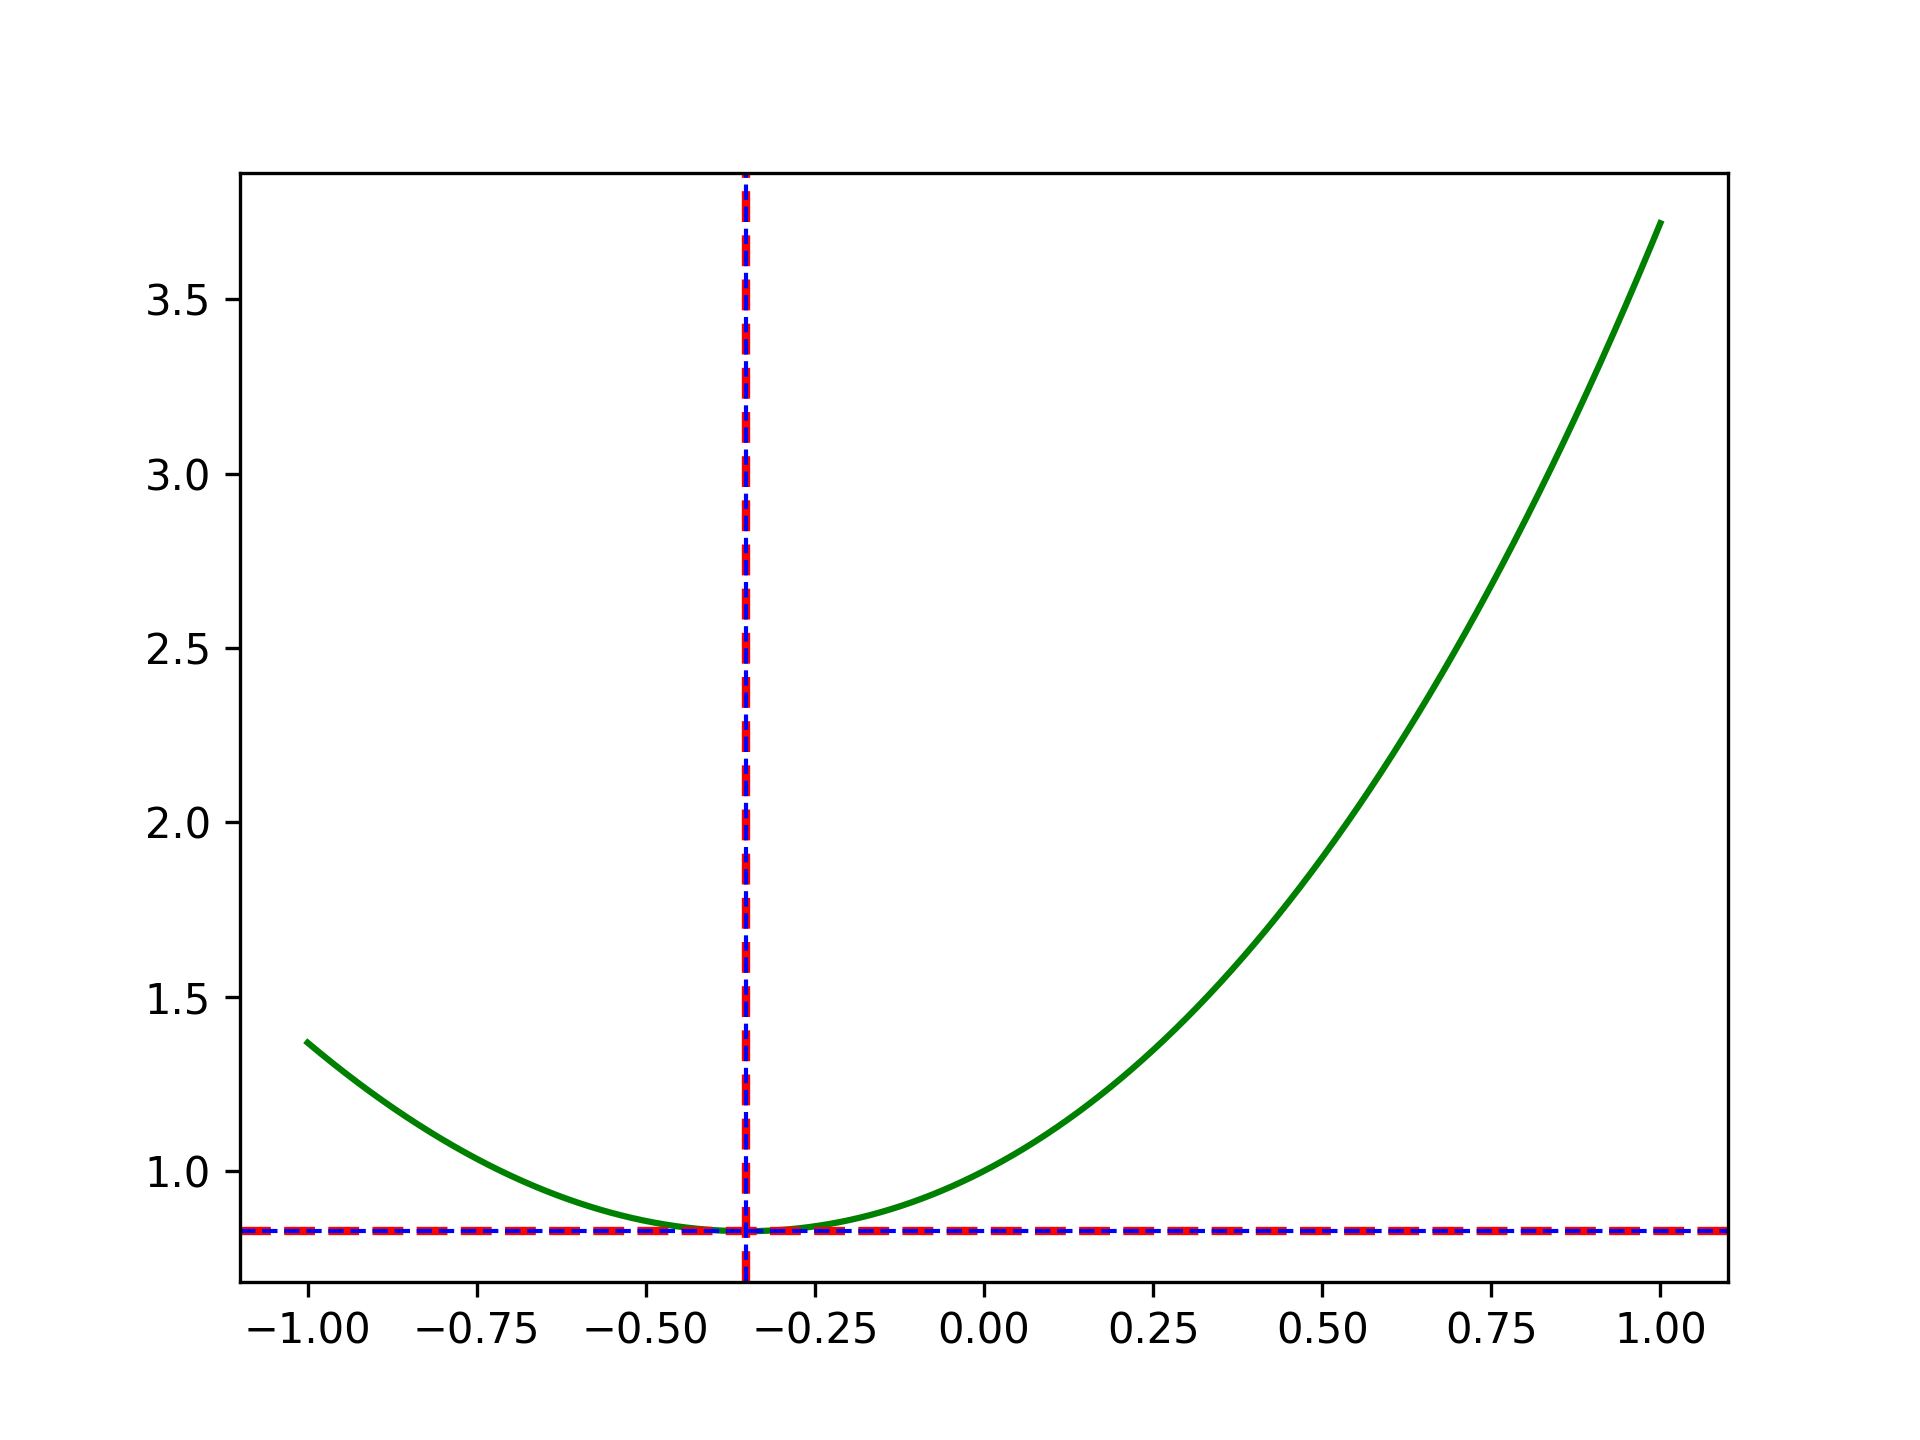
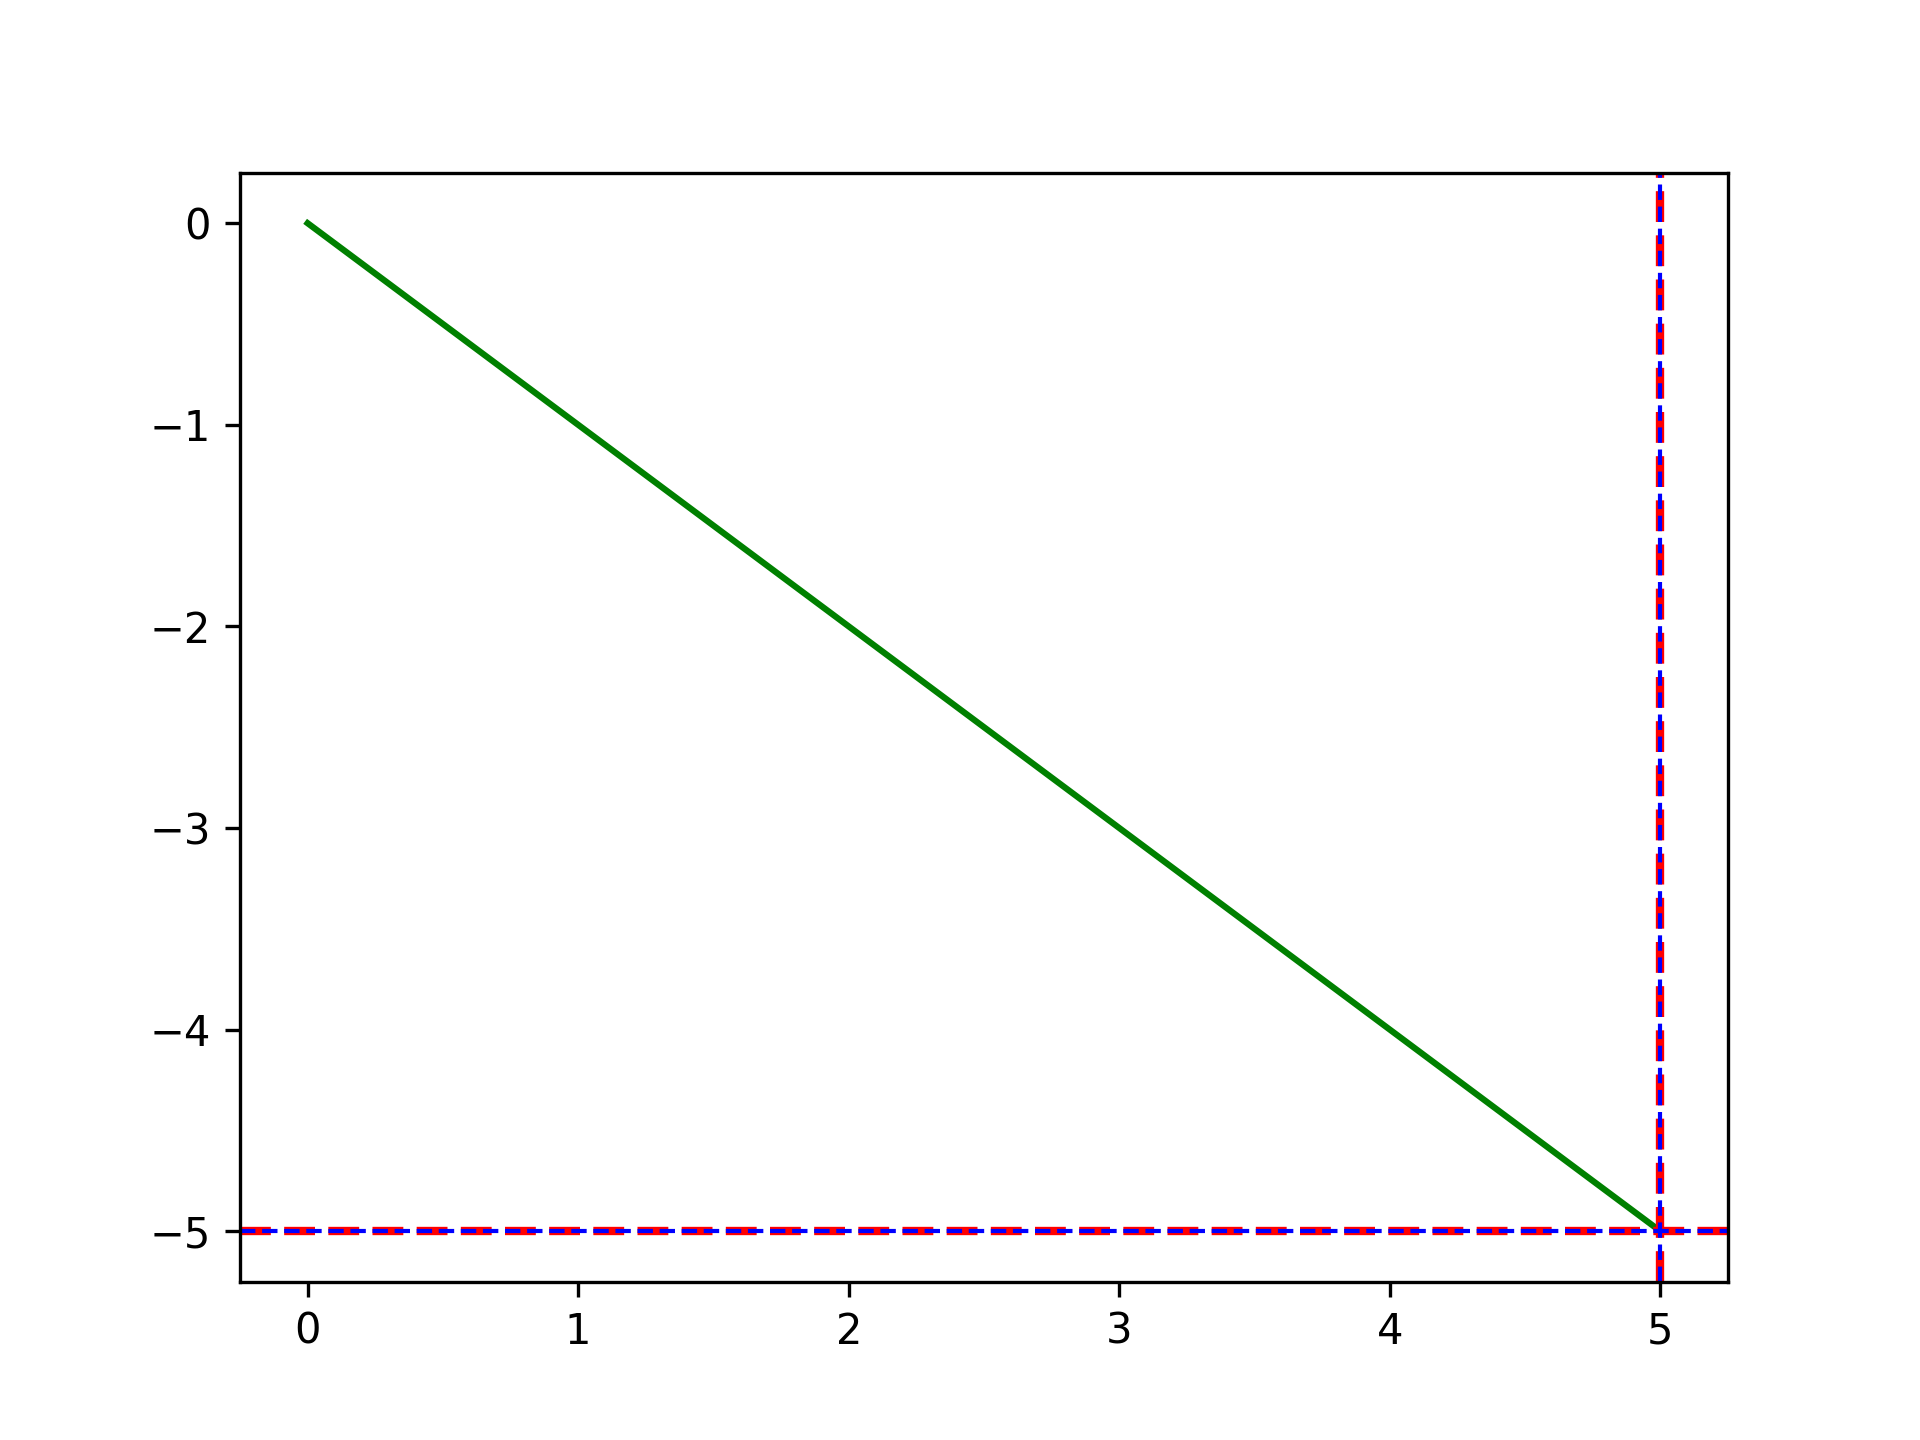
updated

diff --git a/task1/main.py b/task1/main.py
@@ -56,8 +56,11 @@ def dihotomy(func, a, b, eps, delta=None):
 
 x = sp.symbols('x')
 
-str_expr = "exp(x) + x**2"
-a, b = -1, 1
+# str_expr = "exp(x) + x ** 2"
+# str_expr = "sin(x) + 0.1 * x"
+str_expr = "-x"
+# a, b = -1, 1
+a, b = 0, 5
 eps = 10 ** (-3)
 delta = 10 ** (-7)
 samples = round((b - a) / eps)
